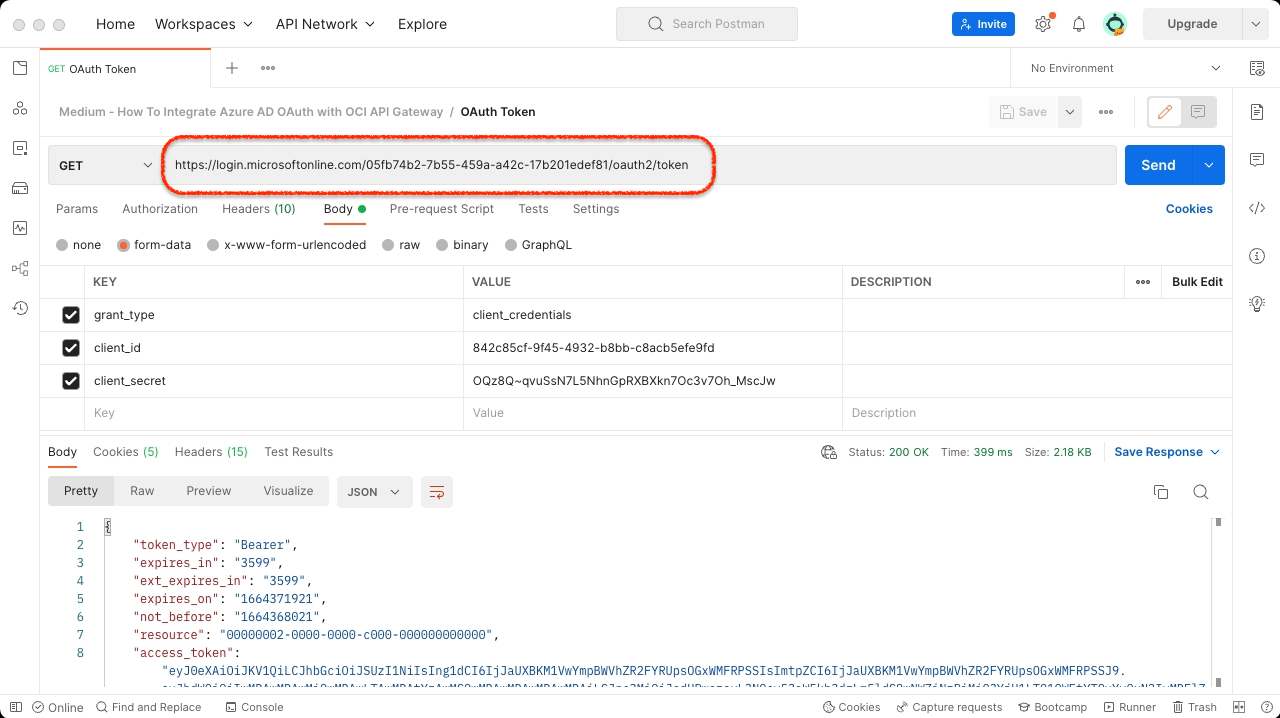
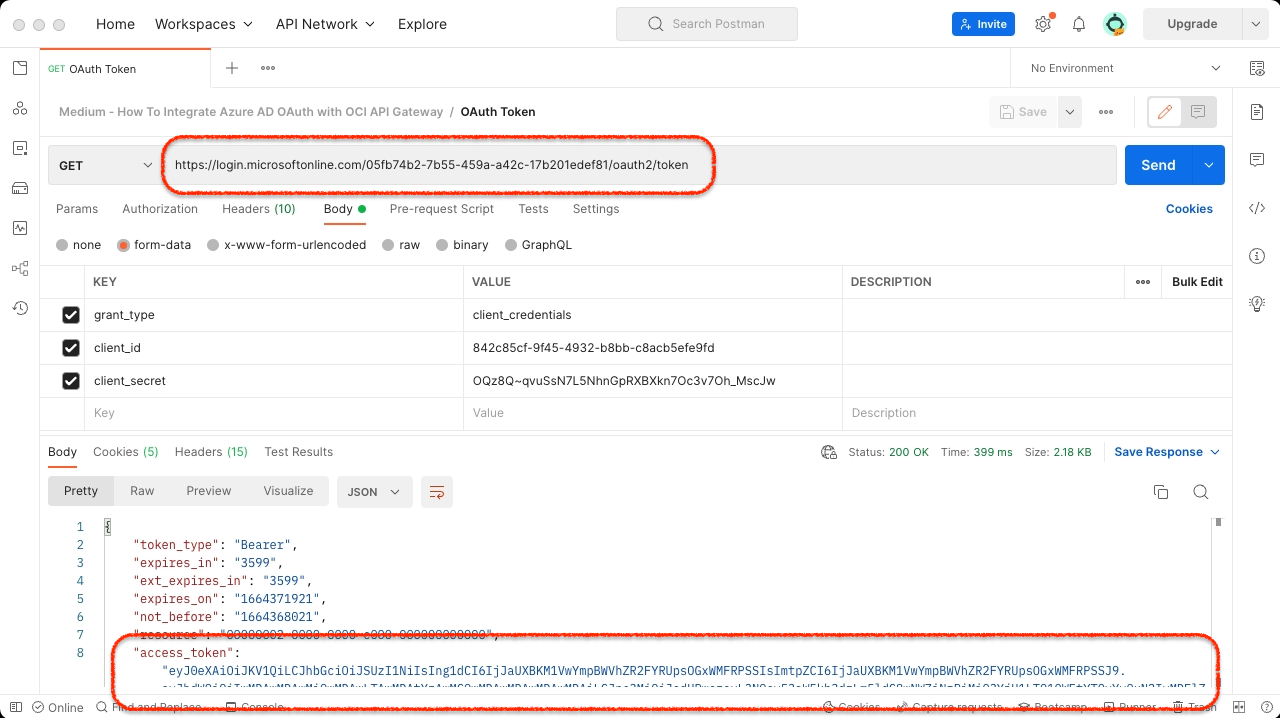
Updating readme

Changed region(s): [[0.0625, 0.8579, 0.9688, 1.0]]

diff --git a/README.md b/README.md
@@ -6,7 +6,7 @@ Prerequisites:
 - You have access to OCI and Azure tenancies.
 - You have a client application that needs to connect to API Gateway in OCI. I will be using Visual Builder for a demonstration. Still, you can use any of yours since the application registers in Azure AD and implements simple [OAuth client credential flows](https://learn.microsoft.com/en-us/azure/active-directory/develop/v2-oauth2-client-creds-grant-flow) for JWT issuance.
 - You have basic knowledge about [API Gateway](https://docs.oracle.com/en-us/iaas/Content/APIGateway/Concepts/apigatewayoverview.htm) and [Functions](https://docs.oracle.com/en-us/iaas/Content/Functions/Concepts/functionsoverview.htm) in OCI.
-- You have created Virtual Cloud Network (VCN) for API Gateaway and Functions in OCI
+- You have created Virtual Cloud Network (VCN) for API Gateway and Functions in OCI
 
 ## Introduction
 In the multi-cloud era, it's preferred to use distributed components across different hyper-scale clouds. This example will ensure that Azure AD OAuth IdP protects API deployments in OCI using the JWT tokens and OAuth client credential flow. The flow is typically easy to use since it requires exporting (1) JWKS keys from Azure AD IdP and importing them into OCI API Gateway. The client application then invokes Azure AD IdP to (2) issue JWT using client credentials and grabs the JWT from the response. Finally, the client application supplies JWT with the (3) request against protected API Gateway resources in OCI. Three mentioned steps are depicted in the architectural sequence below.
@@ -23,13 +23,15 @@ Target architecture is comprised of four main components:
 - (C) Secured API [OCI]  
 - (D) Client Application
 
-This guide will demonstrate:
+JWKS Adapter (B) plays the role of a reverse proxy between (C) Secured API and (A) Active Directory OAuth IdP. The sequence starts with API Gateway (3) retrieving adapted JWKS from another API deployment, serving as a facade for Function. API deployment (2) invokes Functions, which (1) invokes Azure JWKS and modifies it on the fly. When the message is returned to the original requestor (C) JWKS Adapter, it's a set of modified JWKS from Azure, ready to be used in API Gateway.
+
+Ensure to follow next steps:
 1. Configure (A) Azure Active Directory OAuth IdP
 2. Build and Deploy (B) JWKS Adapter Using OCI Function
 3. Deploy (C) Secured API With API Gateway and JWT
 
 ## Configure (A) Azure Active Directory OAuth IdP
-The goal of this step is to register Client Application, make a note of client credentials and get familiar with all required endpoints with the OAuth client credential flow.
+The goal of this step is to register Client Application and configure Azure Active Directory.
 
 1. Open Azure Active Directory the Azure Console. Register a new Application by selecting ```App registrations``` from the left menu and pressing ```New registration``` button.
 ![](images/azure-01.png)
@@ -37,16 +39,19 @@ The goal of this step is to register Client Application, make a note of client c
 ![](images/azure-02.png)
 3. Take a note of ```Application (client) ID```, since we will use it as a credential in token generation API.
 ![](images/azure-03.png)
-1. Select ```Certificates & secrets``` from the left menu and press ```New client secret``` button.
+4. Select ```Certificates & secrets``` from the left menu and press ```New client secret``` button.
 ![](images/azure-04.png)
 5. Fill a short secret description and pick expiry option. By default, expiration of the secret is set to 6 months. The secret will go in pair with ```Application (client) ID``` from step 3. Finally, press ```Add``` button.
 ![](images/azure-05.png)
 6. Take a note of secret by copying ```Value``` field.
 ![](images/azure-06.png)
-7. Return to the ```Overview``` from the left menu, press ```Endpoints``` button and copy the ```OAuth 2.0 token endpoint (v1)``` URL, which will be used for the issuance of JWT tokens.
+7. Select ```Token configuration``` from the left menu and press ```Add optional claim``` button. Then choose ```Access``` token type and select ```aud``` claim. Press ```Add``` button to complete action.
+![](images/azure-08.png)
+8. Return to the ```Overview``` from the left menu, press ```Endpoints``` button and copy the ```OAuth 2.0 token endpoint (v1)``` URL, which will be used for the issuance of JWT tokens.
 ![](images/azure-07.png)
 
-## Build and Deploy (b) JWKS Adapter Using OCI Function
+## Build and Deploy (B) JWKS Adapter Using OCI Function
+The goal is to build JWKS Adapter as a proxy between (A) Active Directory OAuth IdP and (C) Secured API. The reason behind is the absence of ```alg``` field from the keys. JWKS Adapter modifies JWKS on the fly by adding the required ```alg``` field, setting it up to ```RS256```. Function code is located [here](/jwks-adapter/func.js).
 
 1. Create Application for JWKS adapter Function by pressing ```Create application``` button.
 ![](images/adaptor-03.png)
@@ -87,26 +92,26 @@ The goal of this step is to register Client Application, make a note of client c
 ![](images/adaptor-13.png)
 
 ## Deploy (c) Secured API With API Gateway and JWT
-Goal is to deploy API secured by JWT issed by Azure AD.
+Goal of the step is to deploy API, secured by JWT.
 
 1. Find your API Gateway from the OCI menu, select ```Deployments```, and press ```Create deployment```. We will create API secured by JWT.
-   ![](images/adaptor-07.png)
+![](images/adaptor-07.png)
 2. Fill the ```Name``` and ```Path``` and press ```Next```.
-   ![](images/gateway-01.png)
+![](images/gateway-01.png)
 3. We will protect the API with JSON Web Token (JWT). Under Authentication step, select ```Single Authentication```. Select JWT token location to ```Header``` and define header name to ```Authorization```. Use Authentication scheme ```Bearer```. Press ```Next``` to proceed.
-   ![](images/gateway-02.png)
+![](images/gateway-02.png)
 4. Define ```Allowed issuer``` and ```Allowed audience```. Since we used v1 token API, ```Allowed issuer``` should be set to ```https://sts.windows.net/{tenant-id}/```. Replace {tenant-id} with your Azure tenant ID. ```Allowed audience``` should contain aud claim value, and by default, unless explicitly set, it is ```00000002-0000-0000-c000-000000000000```.
-   ![](images/gateway-03.png)
-5. For Public keys make sure to select Remote JWKS and enter JWKS URI to match deployment of adapter Function
-   ![](images/gateway-04.png)
+![](images/gateway-03.png)
+5. For Public keys make sure to select ```Remote JWKS``` and enter ```JWKS URI``` to match deployment of ```JWKS Adapter``` Function
+![](images/gateway-04.png)
 6. Create a Route, define a ```Path``` and ```Methods```. Choose ```Single backend``` with ```Stock response``` type. Define simple Body and Status code. Press Next to proceed.
-   ![](images/gateway-05.png)
+![](images/gateway-05.png)
 7. Review the deployment and press ```Create```.
-   ![](images/gateway-06.png)
+![](images/gateway-06.png)
 8. Wait untill Deployment is in ```Active``` state and copy the ```Endpoint```.
-   ![](images/gateway-07.png)
-9.  Use Postman to retrive JWT token from Azure AD. Enter token API URL https://login.microsoftonline.com/{tenant-id}/oauth2/token, while replacing {tenant-id} with your Azure tenant ID. Send a request and copy the JWT token
-   ![](images/gateway-08.png)
-10. Use Postman to test secured API endpoint. Paste copied endpoint and suffix it with ```Route``` path from step 6. Add Authorization header, use Bearer scheme and paste JWT token issued in the previous step. It should retrive demo body from the step 6.
-    ![](images/gateway-09.png)
+![](images/gateway-07.png)
+9. Use Postman to retrive JWT token from Azure AD. Enter token API URL https://login.microsoftonline.com/{tenant-id}/oauth2/token, while replacing {tenant-id} with your Azure tenant ID. Send a request and copy ```access_token``` value.
+![](images/gateway-08.png)
+10. Finally, use Postman to test secured API endpoint. Paste copied endpoint and suffix it with ```Route``` path from step 6. Add Authorization header, use Bearer scheme and paste JWT token issued in the previous step. It should retrive demo body from the step 6.
+![](images/gateway-09.png)
 
